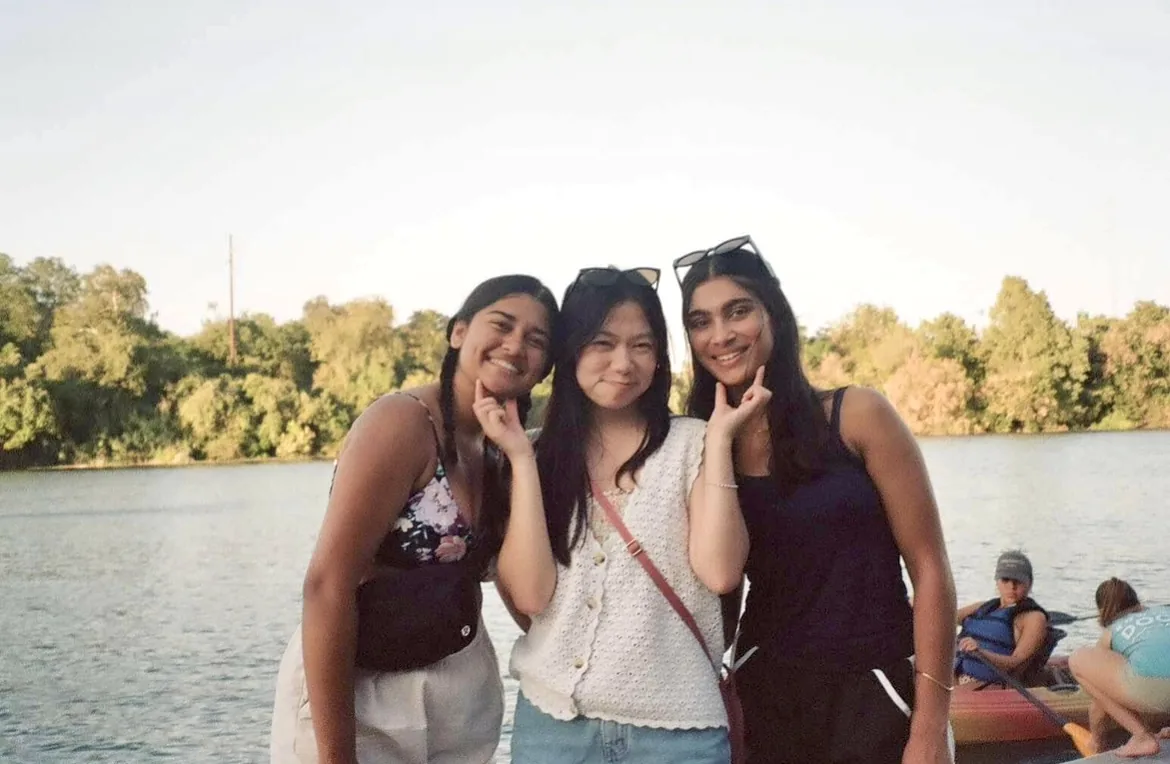
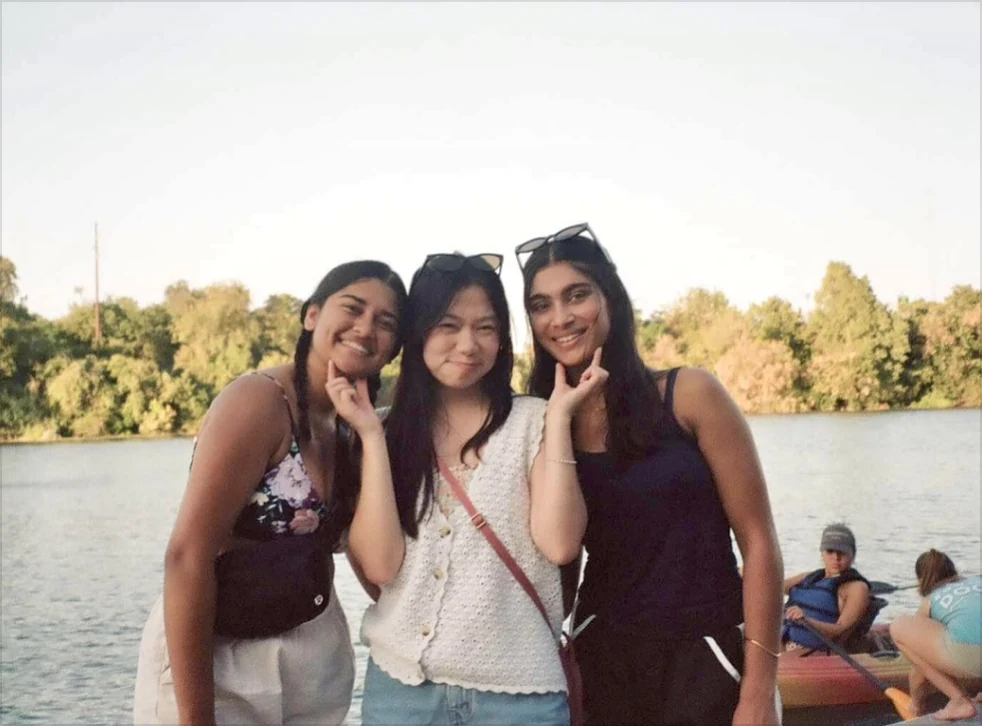
Fix About page photo crops to match Figma exactly
Previously downloaded the raw, uncropped source images and relied on
CSS object-fit: cover to guess the framing, which produced awkward
zoomed-in crops on several tiles (several Figma layers used custom
pan/zoom transforms on the fill, not a simple centered cover). Now
pulling Figma's own rendered export per tile at 2x scale, which
bakes in the exact crop already applied in the design.

diff --git a/components/about-photo-grid.tsx b/components/about-photo-grid.tsx
@@ -9,20 +9,20 @@ type Photo = {
 
 const rows: Photo[][] = [
   [
-    { src: "/about/img-8957.webp", width: 1400, height: 1400 },
-    { src: "/about/img-8964.webp", width: 1080, height: 1400 },
-    { src: "/about/img-8966.webp", width: 1060, height: 1400 },
+    { src: "/about/img-8957.webp", width: 520, height: 689 },
+    { src: "/about/img-8964.webp", width: 536, height: 689 },
+    { src: "/about/img-8966.webp", width: 920, height: 690 },
   ],
   [
-    { src: "/about/img-000022350012-10.webp", width: 1400, height: 928 },
-    { src: "/about/img-8960.webp", width: 1170, height: 764 },
-    { src: "/about/img-8970.webp", width: 808, height: 1024 },
+    { src: "/about/img-000022350012-10.webp", width: 520, height: 724 },
+    { src: "/about/img-8960.webp", width: 982, height: 726 },
+    { src: "/about/img-8970.webp", width: 474, height: 726 },
   ],
   [
-    { src: "/about/img-diya-3.webp", width: 1400, height: 1400 },
-    { src: "/about/img-5994.webp", width: 683, height: 1024 },
-    { src: "/about/img-5993.webp", width: 683, height: 1024 },
-    { src: "/about/img-2366.webp", width: 768, height: 1024 },
+    { src: "/about/img-diya-3.webp", width: 520, height: 626 },
+    { src: "/about/img-5994.webp", width: 475, height: 628 },
+    { src: "/about/img-5993.webp", width: 475, height: 628 },
+    { src: "/about/img-2366.webp", width: 475, height: 628 },
   ],
 ];
 
